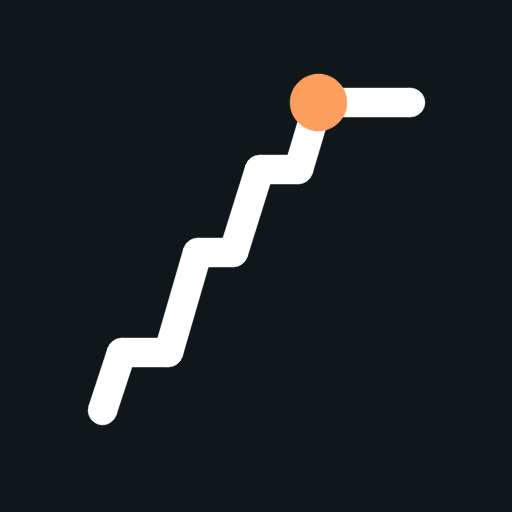
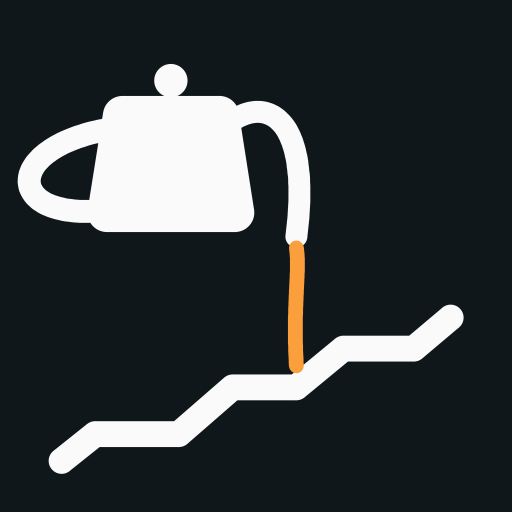
feat: 홈 화면에 설치 가능한 앱으로 구성

Changed region(s): [[0.0312, 0.125, 0.9062, 0.9375]]

diff --git a/tools/make_icon.py b/tools/make_icon.py
@@ -1,0 +1,149 @@
+"""앱 아이콘 생성 — 드립 포트가 목표 곡선 위에 물을 붓는 모습.
+
+    python tools/make_icon.py
+
+frontend/public/icon-192.png · icon-512.png를 다시 만듭니다.
+opencv-python이 필요합니다 (backend 가상환경에 들어 있습니다).
+
+작게 줄여도 읽히도록 요소를 넷으로 제한합니다: 몸통 / 주둥이 / 손잡이 / 물줄기 + 곡선.
+
+물줄기는 곡선의 **오르막이 시작되는 지점**에 떨어집니다.
+"물을 부으면 누적 물량이 오른다"는 이 앱의 동작이 아이콘 안에 들어갑니다.
+"""
+
+from pathlib import Path
+
+import cv2
+import numpy as np
+
+OUT = Path(__file__).resolve().parent.parent / "frontend" / "public"
+
+BG = (26, 23, 15)  # BGR — #0f172a
+WHITE = (250, 250, 250)
+AMBER = (60, 158, 251)  # BGR — #fb9e3c
+
+CURVE = [
+    (0, 0),
+    (10, 56),
+    (35, 56),
+    (51, 154),
+    (70, 154),
+    (84, 235),
+    (105, 235),
+    (116, 300),
+]
+POUR_START_T = 70  # 물줄기가 떨어질 지점 = 3차 주수가 시작되는 시각
+
+CX0, CX1 = 0.12, 0.88  # 곡선이 차지하는 가로 범위
+CY_BOT, CY_TOP = 0.90, 0.62
+
+
+def bezier(p0, p1, p2, p3, n=80):
+    t = np.linspace(0, 1, n)[:, None]
+    p0, p1, p2, p3 = (np.array(p, float) for p in (p0, p1, p2, p3))
+    return (
+        (1 - t) ** 3 * p0
+        + 3 * (1 - t) ** 2 * t * p1
+        + 3 * (1 - t) * t**2 * p2
+        + t**3 * p3
+    )
+
+
+def curve_xy(t: float, w: float) -> tuple[float, float]:
+    max_t, max_w = CURVE[-1]
+    return (
+        CX0 + (t / max_t) * (CX1 - CX0),
+        CY_BOT - (w / max_w) * (CY_BOT - CY_TOP),
+    )
+
+
+def draw(size: int) -> np.ndarray:
+    # 4배로 그린 뒤 축소합니다. cv2 안티에일리어싱만으로는 곡선 가장자리가 거칩니다.
+    ss = 4
+    s = size * ss
+    img = np.full((s, s, 3), BG, np.uint8)
+
+    def P(x, y):
+        return (round(x * s), round(y * s))
+
+    def T(w):
+        return max(1, round(w * s))
+
+    def stroke(points, color, width):
+        pts = np.array([P(*p) for p in points], np.int32)
+        cv2.polylines(img, [pts], False, color, T(width), cv2.LINE_AA)
+        # polylines는 끝을 각지게 남깁니다. 원을 얹어 둥글게 만듭니다.
+        for p in (points[0], points[-1]):
+            cv2.circle(img, P(*p), T(width) // 2, color, -1, cv2.LINE_AA)
+
+    # ── 목표 곡선 ────────────────────────────────────────────
+    stroke([curve_xy(t, w) for t, w in CURVE], WHITE, 0.050)
+
+    # ── 물줄기가 떨어지는 지점 ──────────────────────────────
+    land_x, land_y = curve_xy(POUR_START_T, 154)
+
+    # ── 포트 몸통 ────────────────────────────────────────────
+    # 위가 좁고 아래가 넓은 사다리꼴. 두꺼운 외곽선으로 모서리를 둥글립니다.
+    bx, by = land_x - 0.245, 0.325
+    body = np.array(
+        [
+            P(bx - 0.095, by - 0.100),
+            P(bx + 0.095, by - 0.100),
+            P(bx + 0.125, by + 0.090),
+            P(bx - 0.125, by + 0.090),
+        ],
+        np.int32,
+    )
+    cv2.fillPoly(img, [body], WHITE, cv2.LINE_AA)
+    cv2.polylines(img, [body], True, WHITE, T(0.075), cv2.LINE_AA)
+
+    # 뚜껑 꼭지 — 몸통에 닿게 둡니다. 띄우면 따로 떠 있는 점처럼 보입니다.
+    cv2.circle(img, P(bx, by - 0.168), T(0.032), WHITE, -1, cv2.LINE_AA)
+
+    # ── 손잡이 ───────────────────────────────────────────────
+    # 시작·끝을 몸통 안쪽에 두어 붙어 보이게 하고, 바깥으로 적당히만 부풀립니다.
+    stroke(
+        bezier(
+            (bx - 0.105, by - 0.075),
+            (bx - 0.335, by - 0.045),
+            (bx - 0.335, by + 0.120),
+            (bx - 0.100, by + 0.082),
+        ),
+        WHITE,
+        0.044,
+    )
+
+    # ── 주둥이 (구스넥) ──────────────────────────────────────
+    # 몸통에서 나와 위로 솟았다가 크게 넘어와 아래를 향합니다.
+    # 짧게 그리면 몸통에 붙은 혹처럼 보여 주둥이로 읽히지 않습니다.
+    spout_tip = (land_x, 0.462)
+    stroke(
+        bezier(
+            (bx + 0.080, by - 0.055),
+            (bx + 0.175, by - 0.160),
+            (land_x + 0.032, 0.215),
+            spout_tip,
+        ),
+        WHITE,
+        0.042,
+    )
+
+    # ── 물줄기 ───────────────────────────────────────────────
+    # 곡선에 닿기 직전에 끊습니다. 겹쳐 그리면 선을 뚫고 지나간 것처럼 보입니다.
+    stroke(
+        bezier(
+            (land_x, spout_tip[1] + 0.022),
+            (land_x + 0.007, 0.530),
+            (land_x - 0.007, 0.590),
+            (land_x, land_y - 0.042),
+        ),
+        AMBER,
+        0.028,
+    )
+
+    return cv2.resize(img, (size, size), interpolation=cv2.INTER_AREA)
+
+
+for n in (192, 512):
+    cv2.imwrite(str(OUT / f"icon-{n}.png"), draw(n))
+print("생성 완료")
